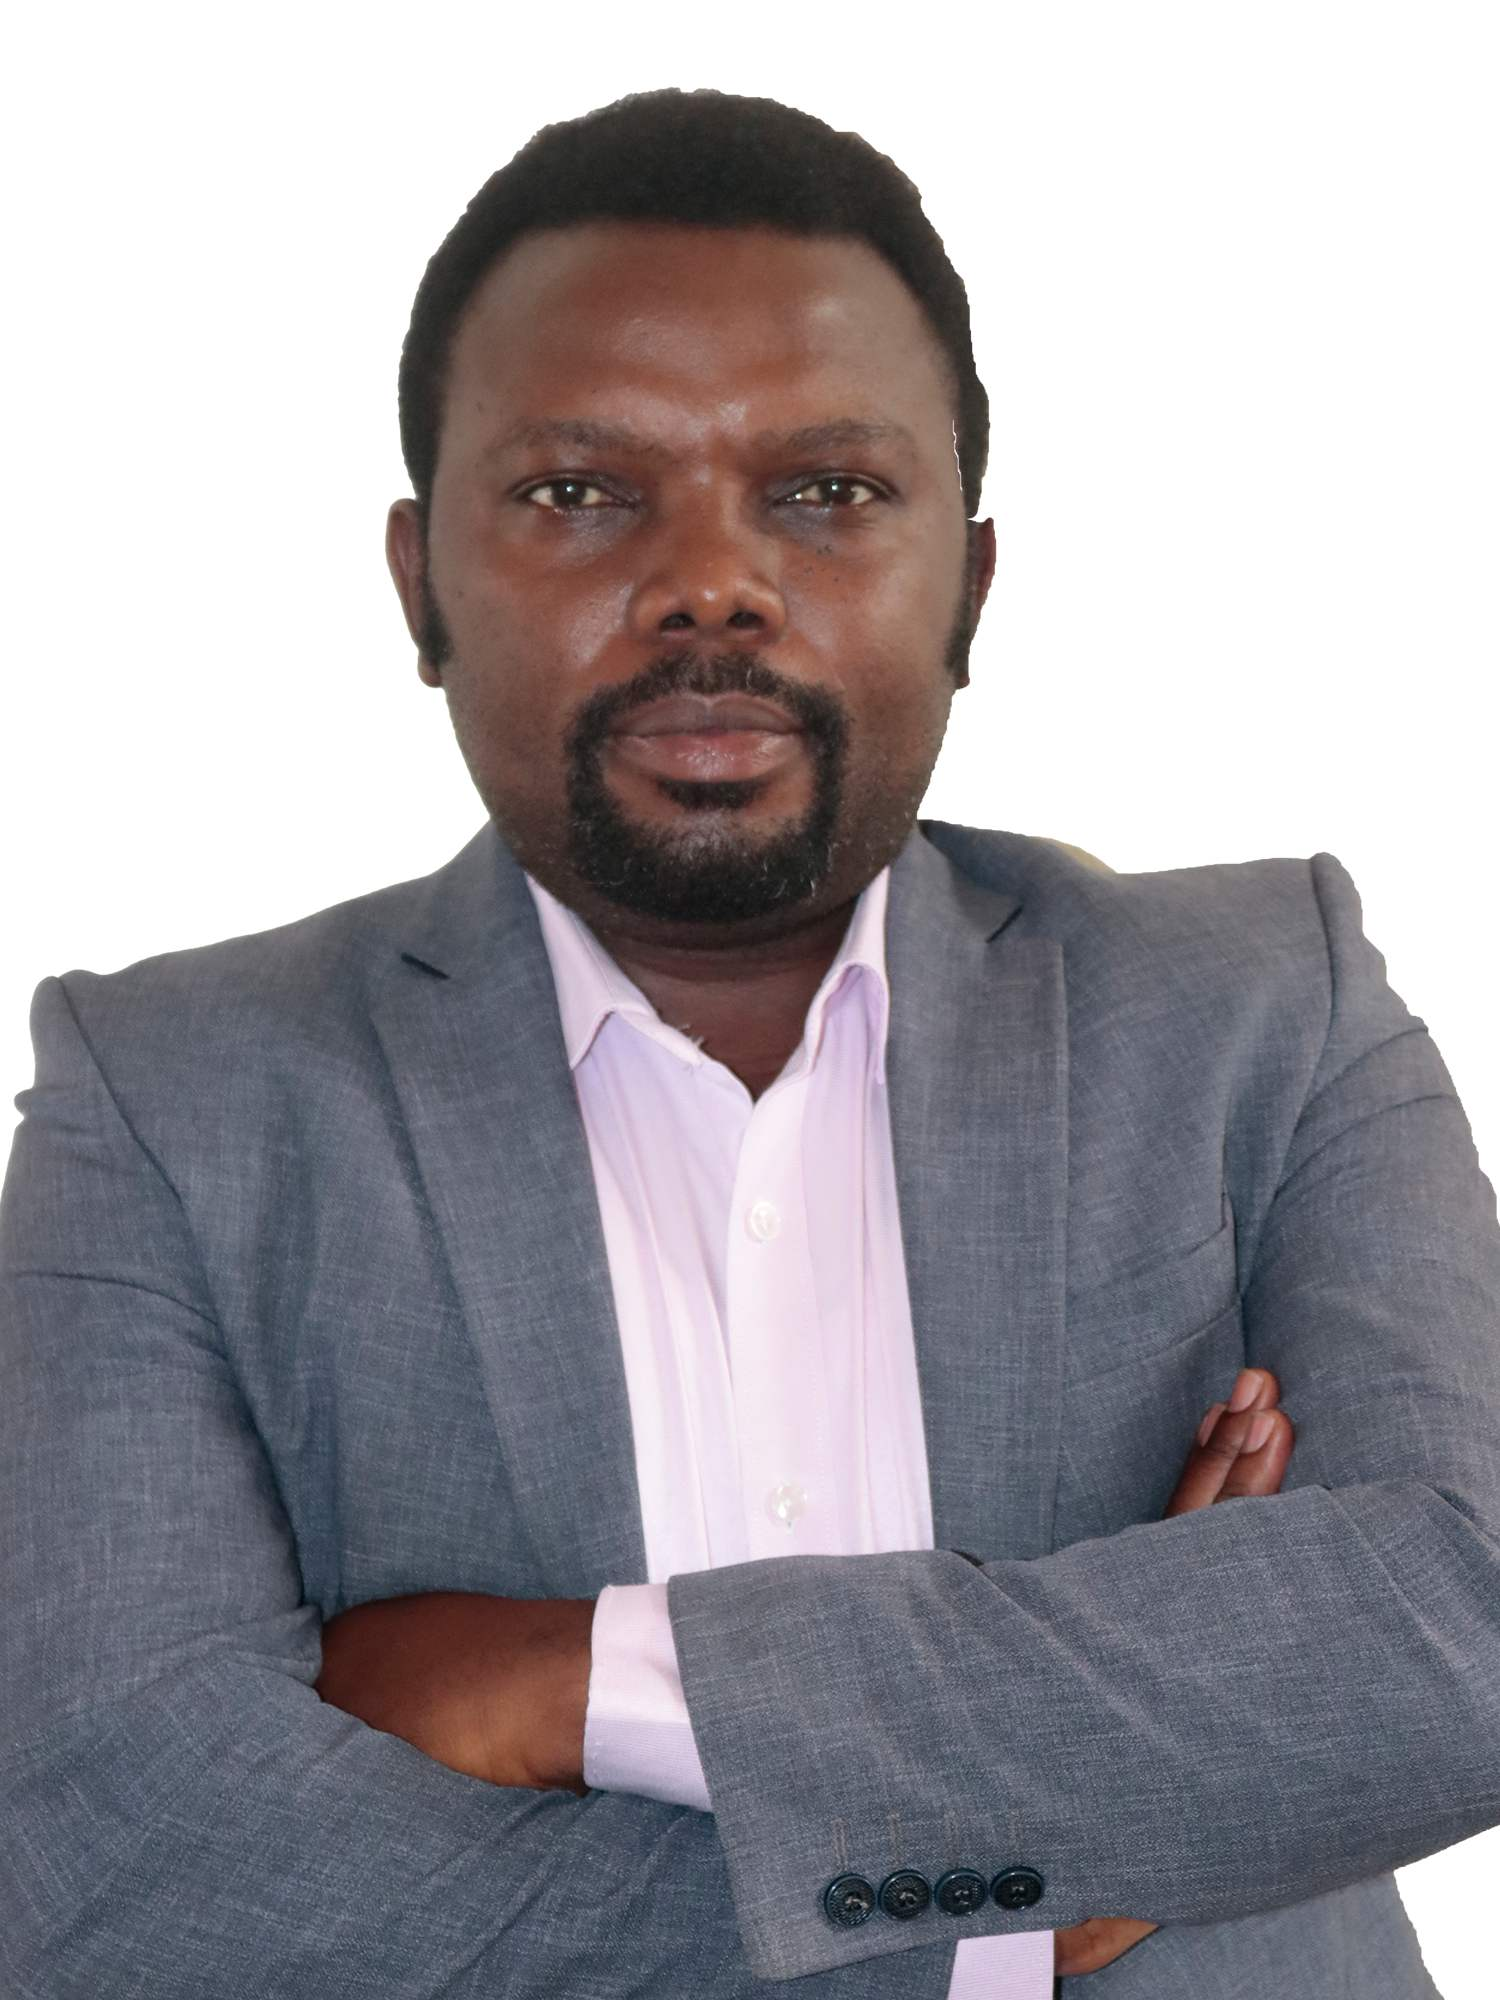
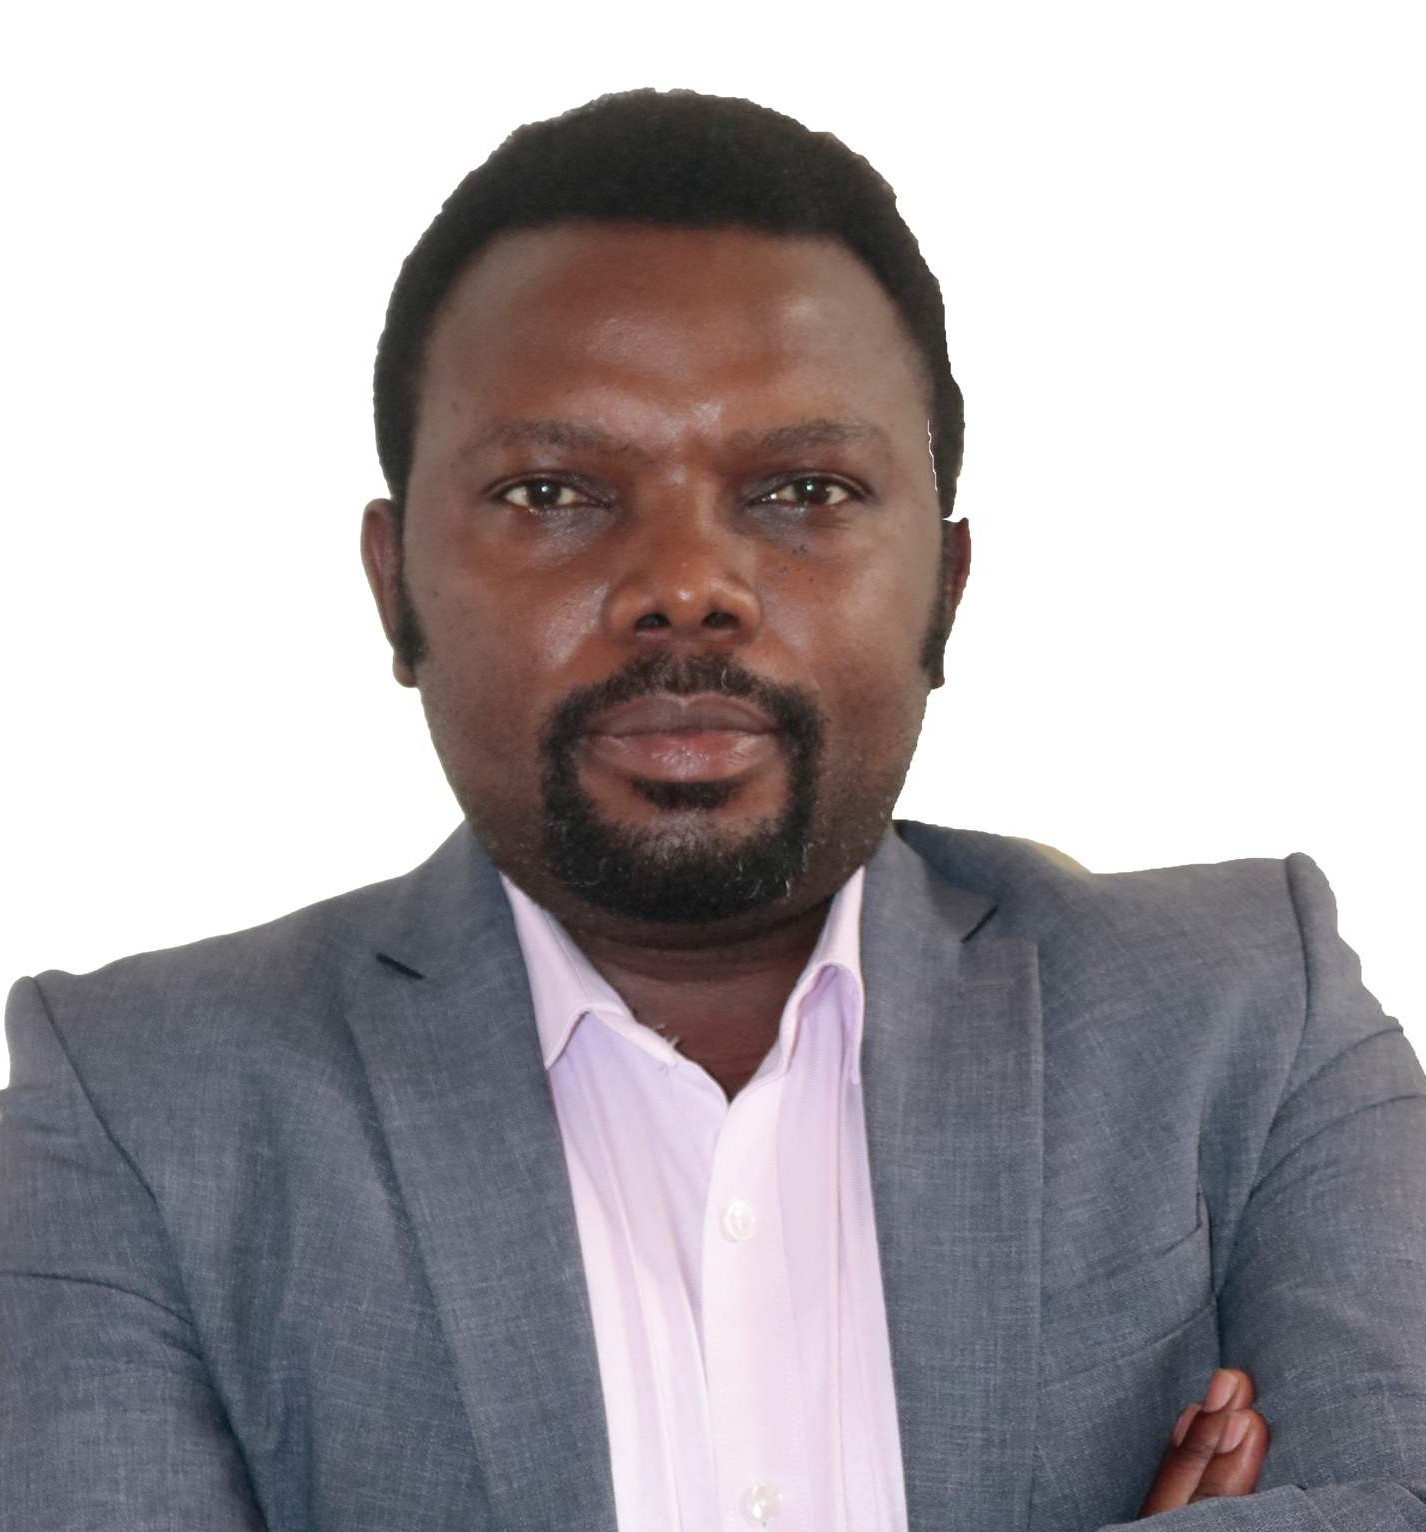
feat: Update contact information and roles in Footer and Innovators data
Revised the Footer component to include updated contact details for the Coordinator and Assistant Coordinator. Modified the Innovator type to change the status from "student" and "faculty" to "innovator" and "mentor". Updated the Innovators data to reflect these changes, ensuring consistency across the application. Additionally, improved the layout of the Index component to enhance the display of innovator information.

diff --git a/src/lib/data.ts b/src/lib/data.ts
@@ -3,7 +3,7 @@ export type Innovator = {
   id: string;
   name: string;
   role: string;
-  status: "student" | "alumni" | "faculty";
+  status: "innovator" | "alumni" | "mentor";
   department: string;
   skills: string[];
   image: string;
@@ -53,7 +53,7 @@ export const innovators: Innovator[] = [
     id: "1",
     name: "MBONABUCYA Celestin",
     role: "Hub Coordinator (Academic Staff)",
-    status: "faculty",
+    status: "mentor",
     department: "School of ICT",
     skills: ["Strategic Leadership", "Innovation Management", "Project Coordination", "Mentorship"],
     image: "/img/Team/cordinator.jpg",
@@ -63,8 +63,8 @@ export const innovators: Innovator[] = [
   {
     id: "2",
     name: "NDAYISHIMIYE Habibu",
-    role: "Assistant Coordinator (Student)",
-    status: "student",
+    role: "Assistant Coordinator (innovator)",
+    status: "innovator",
     department: "School of ICT",
     skills: ["Project Management", "Team Coordination", "Reporting", "Operations"],
     image: "/img/Team/habibu.jpg",
@@ -75,7 +75,7 @@ export const innovators: Innovator[] = [
     id: "3",
     name: "ISHIMWE KARLISE Lucie",
     role: "Assistant Administrator",
-    status: "student",
+    status: "innovator",
     department: "School of ICT",
     skills: ["Documentation", "Administration", "Event Coordination", "Communication"],
     image: "/img/Team/karlise.jpg",
@@ -86,7 +86,7 @@ export const innovators: Innovator[] = [
     id: "7",
     name: "UWIHANGANYE Edison",
     role: "UI/UX & Frontend Team Leader",
-    status: "student",
+    status: "innovator",
     department: "Computer Science",
     skills: ["React", "UI/UX Design", "Team Leadership", "Frontend Architecture"],
     image: "/img/Team/edison.jpg",
@@ -119,7 +119,7 @@ export const innovators: Innovator[] = [
     id: "6",
     name: "David TUYISHIME",
     role: "Backend Team Leader",
-    status: "student",
+    status: "innovator",
     department: "School of ICT",
     skills: ["Backend Development", "Team Leadership", "Code Review", "Git"],
     image: "/img/Team/david.jpg",
@@ -142,7 +142,7 @@ export const innovators: Innovator[] = [
     id: "9",
     name: "Derrick IRADUKUNDA",
     role: "Systems Administrator",
-    status: "student",
+    status: "innovator",
     department: "School of ICT",
     skills: ["System Administration", "Server Management", "Deployment", "Security"],
     image: "/img/Team/derrick.jpg",
@@ -153,7 +153,7 @@ export const innovators: Innovator[] = [
     id: "10",
     name: "Igor IHIMBAZWE",
     role: "DevOps Advisor",
-    status: "student",
+    status: "innovator",
     department: "School of ICT",
     skills: ["DevOps", "CI/CD", "Docker", "Cloud Deployment"],
     image: "/img/Team/igor.jpg",
@@ -164,7 +164,7 @@ export const innovators: Innovator[] = [
     id: "11",
     name: "Danny HATEGEKIMANA",
     role: "Designer for social, print, and events",
-    status: "student",
+    status: "innovator",
     department: "School of ICT",
     skills: ["Graphic Design", "Branding", "Social Media", "Marketing Materials"],
     image: "/img/Team/danny.jpg",
@@ -175,7 +175,7 @@ export const innovators: Innovator[] = [
     id: "12",
     name: "Marie Claire UWIRINYIYIMANA",
     role: "Health & Sports Coordinator",
-    status: "student",
+    status: "innovator",
     department: "School of ICT",
     skills: ["Event Coordination", "Team Building", "Wellness Programs"],
     image: "/img/Team/claire.jpg",
@@ -187,7 +187,7 @@ export const innovators: Innovator[] = [
     id: "13",
     name: "Denis UWIHIRWE",
     role: "Junior Developer",
-    status: "student",
+    status: "innovator",
     department: "School of ICT",
     skills: ["JavaScript", "React", "Web Development"],
     image: "/img/Team/denis.jpg",
@@ -198,7 +198,7 @@ export const innovators: Innovator[] = [
     id: "14",
     name: "Jado Fils SEZIKEYE",
     role: "Junior Developer",
-    status: "student",
+    status: "innovator", 
     department: "School of ICT",
     skills: ["Python", "Django", "Backend Development"],
     image: "/img/Team/jado.png",
@@ -209,7 +209,7 @@ export const innovators: Innovator[] = [
     id: "15",
     name: "Olivier BYIRINGORO",
     role: "Junior Developer",
-    status: "student",
+    status: "innovator",
     department: "School of ICT",
     skills: ["JavaScript", "Node.js", "Full Stack Development"],
     image: "/img/Team/olvier.jpg",
@@ -220,7 +220,7 @@ export const innovators: Innovator[] = [
     id: "16",
     name: "Poli NDIRAMIYE",
     role: "Junior Developer",
-    status: "student",
+    status: "innovator",
     department: "School of ICT",
     skills: ["React", "TypeScript", "Frontend Development"],
     image: "/img/Team/poli.jpg",
@@ -231,7 +231,7 @@ export const innovators: Innovator[] = [
     id: "17",
     name: "Michael MUNEZERO NTAGANIRA",
     role: "Junior Developer",
-    status: "student",
+    status: "innovator",
     department: "School of ICT",
     skills: ["Java", "Spring Boot", "Backend Development"],
     image: "/img/Team/michel.png",
@@ -242,7 +242,7 @@ export const innovators: Innovator[] = [
     id: "18",
     name: "Clement NSENGIYUMVA",
     role: "Junior Developer",
-    status: "student",
+    status: "innovator",
     department: "School of ICT",
     skills: ["JavaScript", "Vue.js", "Frontend Development"],
     image: "/img/Team/clement.jpg",
@@ -253,7 +253,7 @@ export const innovators: Innovator[] = [
     id: "19",
     name: "Obed UWIHANGANYE",
     role: "Junior Developer",
-    status: "student",
+    status: "innovator",
     department: "School of ICT",
     skills: ["Python", "Flask", "Backend Development"],
     image: "/img/Team/obed.jpg",
@@ -264,7 +264,7 @@ export const innovators: Innovator[] = [
     id: "20",
     name: "TUYISHIME KAYITSINGA Hertillan",
     role: "Junior Developer",
-    status: "student",
+    status: "innovator",
     department: "School of ICT",
     skills: ["React", "Node.js", "Full Stack Development"],
     image: "/img/Team/hertillan.jpg",
@@ -275,7 +275,7 @@ export const innovators: Innovator[] = [
     id: "21",
     name: "Eric TUYISHIME",
     role: "Junior Developer",
-    status: "student",
+    status: "innovator",
     department: "School of ICT",
     skills: ["JavaScript", "Express.js", "Backend Development"],
     image: "/img/Team/ericc.jpg",
@@ -286,7 +286,7 @@ export const innovators: Innovator[] = [
     id: "22",
     name: "Merci RUYANGA",
     role: "Junior Developer",
-    status: "student",
+    status: "innovator",
     department: "School of ICT",
     skills: ["React", "CSS", "fullstack  Development"],
     image: "/img/Team/merci.jpg",
@@ -401,11 +401,11 @@ export const projects: Project[] = [
   {
     id: "5",
     title: "Academic Records System",
-    description: "Digital system for managing student academic records and transcripts.",
+    description: "Digital system for managing innovator academic records and transcripts.",
     innovators: ["6"],
     stage: "concept",
     category: "Education",
-    categories: ["Education", "Student Management", "Administration"],
+    categories: ["Education", "innovator Management", "Administration"],
     image: "#",
     date: "2024-01-15",
     status: "Planning",
@@ -425,7 +425,7 @@ export const services: Service[] = [
   {
     id: "1",
     title: "Talent Access",
-    description: "Work with developers, designers, mentors. Involves students, alumni, and professionals.",
+    description: "Work with developers, designers, mentors. Involves innovators, alumni, and professionals.",
     icon: "users"
   },
   {

diff --git a/src/pages/InnovatorsDirectory.tsx b/src/pages/InnovatorsDirectory.tsx
@@ -198,9 +198,10 @@ const InnovatorsDirectory = () => {
                     onChange={(e) => setStatusFilter(e.target.value)}
                   >
                     <option value="all">All Status</option>
-                    <option value="student">Student</option>
-                    <option value="faculty">Faculty</option>
+                    <option value="innovator">Innovator</option>
+                    <option value="mentor">Mentor</option>
                     <option value="alumni">Alumni</option>
+                    <option value="staff">Staff</option>
                   </select>
                 </div>
 
@@ -379,15 +380,32 @@ const InnovatorsDirectory = () => {
 
                         {/* Skills Preview */}
                         <div className="absolute bottom-4 left-4 right-4">
-                          <div className="flex flex-wrap gap-2">
-                            {(innovator.skills || []).slice(0, 3).map((skillObj, skillIndex) => (
-                              <span
-                                key={`${skillObj.skill}-${skillIndex}`}
-                                className="px-3 py-1 bg-white/95 backdrop-blur-sm text-[#00628b] text-xs rounded-full font-semibold shadow-lg border border-white/50"
-                              >
-                                {skillObj.skill}
-                              </span>
-                            ))}
+                          <div className="flex flex-wrap gap-1 max-w-full overflow-hidden">
+                            {(() => {
+                              const skills = innovator.skills || [];
+                              const firstSkills = skills.slice(0, 3);
+                              const hasLongSkills = firstSkills.some(skill => skill.skill.length > 8);
+                              const maxSkills = hasLongSkills ? 2 : 3;
+                              const displayedSkills = skills.slice(0, maxSkills);
+
+                              return (
+                                <>
+                                  {displayedSkills.map((skillObj, skillIndex) => (
+                                    <span
+                                      key={`${skillObj.skill}-${skillIndex}`}
+                                      className="px-2 py-1 bg-white/95 backdrop-blur-sm text-[#00628b] text-xs rounded-full font-semibold shadow-lg border border-white/50 whitespace-nowrap flex-shrink-0"
+                                    >
+                                      {skillObj.skill}
+                                    </span>
+                                  ))}
+                                  {skills.length > maxSkills && (
+                                    <span className="px-2 py-1 bg-white/95 backdrop-blur-sm text-[#00628b] text-xs rounded-full font-semibold shadow-lg border border-white/50 whitespace-nowrap flex-shrink-0">
+                                      +{skills.length - maxSkills}
+                                    </span>
+                                  )}
+                                </>
+                              );
+                            })()}
                           </div>
                         </div>
 

diff --git a/src/pages/Index.tsx b/src/pages/Index.tsx
@@ -479,22 +479,32 @@ const Index = () => {
                 whileHover={{ y: -5 }}
               >
                 <div className="bg-white/90 backdrop-blur-sm rounded-2xl overflow-hidden shadow-lg border border-white/20 hover:shadow-xl transition-all duration-300 group">
-                  <div className="relative h-48 overflow-hidden">
-                    <img
-                      src={innovator.image}
-                      alt={innovator.name}
-                      className="w-full h-full object-cover group-hover:scale-110 transition-transform duration-500"
-                    />
-                    <div className="absolute inset-0 bg-gradient-to-t from-black/50 to-transparent"></div>
-                  </div>
-
                   <div className="p-6">
-                    <h3 className="text-xl font-bold text-gray-900 dark:text-white mb-2 group-hover:text-[#00628b] transition-colors">
-                      {innovator.name}
-                    </h3>
-                    <p className="text-[#00628b] font-semibold text-sm mb-3">
-                      {innovator.role}
-                    </p>
+                    <div className="flex items-center space-x-4 mb-4">
+                      {/* Circular Image */}
+                      <div className="relative w-28 h-28 rounded-full overflow-hidden flex-shrink-0 border-2 border-gray-200 dark:border-gray-600">
+                        <img
+                          src={innovator.image}
+                          alt={innovator.name}
+                          className="w-full h-full object-cover group-hover:scale-110 transition-transform duration-500"
+                          onError={(e) => {
+                            const target = e.target as HTMLImageElement;
+                            target.src = "/img/placeholder.svg";
+                            target.className = "w-full h-full object-contain opacity-50";
+                          }}
+                        />
+                      </div>
+
+                      <div className="flex-1">
+                        <h3 className="text-xl font-bold text-gray-900 dark:text-white mb-2 group-hover:text-[#00628b] transition-colors">
+                          {innovator.name}
+                        </h3>
+                        <p className="text-[#00628b] font-semibold text-sm">
+                          {innovator.role}
+                        </p>
+                      </div>
+                    </div>
+
                     <p className="text-gray-600 dark:text-gray-300 text-sm leading-relaxed mb-4">
                       {innovator.bio}
                     </p>

diff --git a/src/components/Footer.tsx b/src/components/Footer.tsx
@@ -128,9 +128,17 @@ const Footer = () => {
               </li>
               <li className="flex items-center gap-3">
                 <Phone size={18} className="text-primary" />
-                <a href="tel:+250780123456" className="text-muted-foreground hover:text-primary transition-colors">
-                  +250 790 289 399
-                </a>
+                <div className="text-muted-foreground">
+                  <a href="tel:+250788695862" className="hover:text-primary transition-colors block">
+                    +250 788 695 862 - Coordinator
+                  </a>
+                  <a href="tel:+250786779666" className="hover:text-primary transition-colors block">
+                    +250 786 779 666 - Assistant Coordinator
+                  </a>
+                  <a href="tel:+250790289399" className="hover:text-primary transition-colors block">
+                    +250 790 289 399 - Assistant Administrator
+                  </a>
+                </div>
               </li>
             </ul>
           </motion.div>
